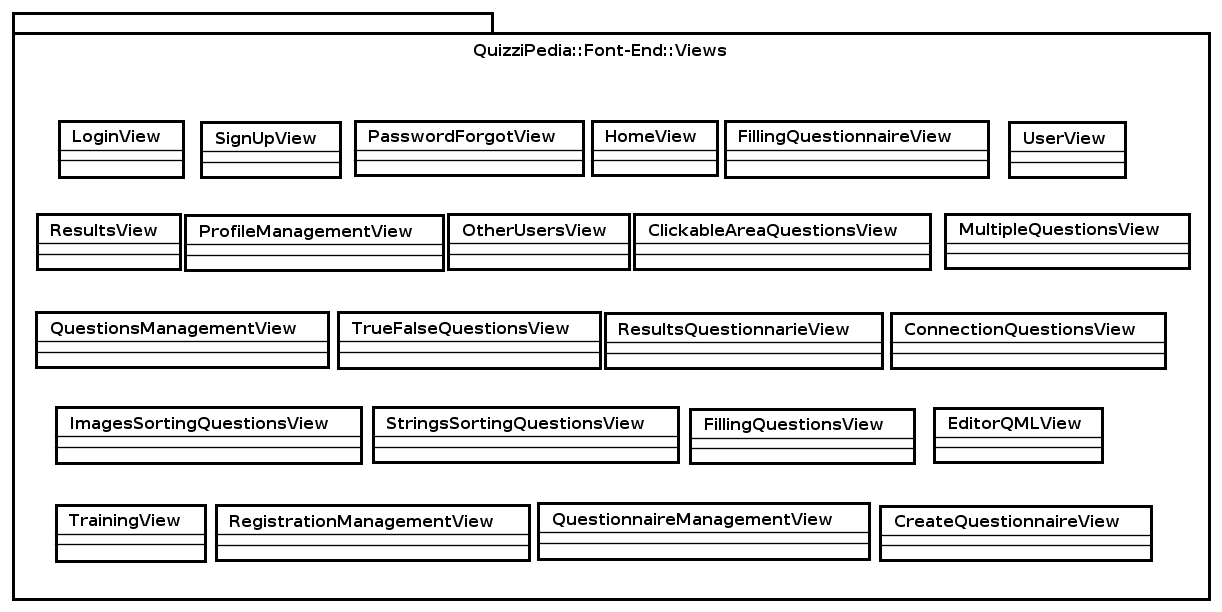
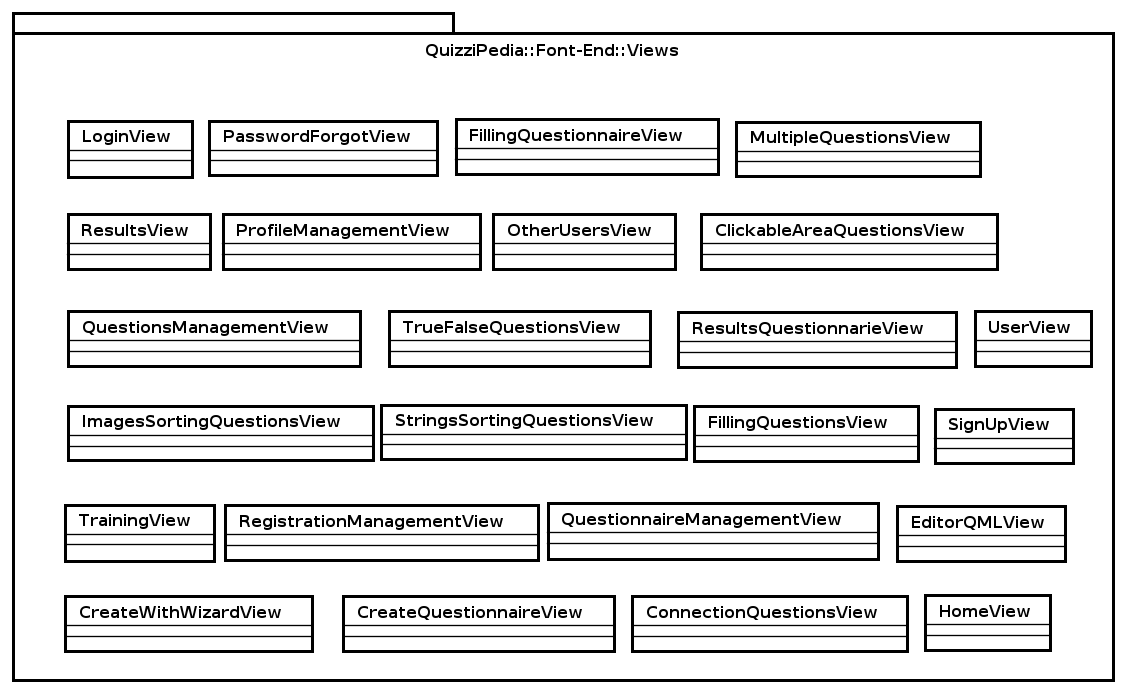
Aggiornate view DDP.

Changed region(s): [[0.0, 0.1552, 0.9947, 0.9935], [0.0, 0.0, 0.9947, 0.0931]]

diff --git a/RQ/DefinizioneDiProdotto/sezioni/Front-End/QuizziPedia_Front-End_Views.tex b/RQ/DefinizioneDiProdotto/sezioni/Front-End/QuizziPedia_Front-End_Views.tex
@@ -44,4 +44,4 @@
 \input{sezioni/Front-End/Views/QuizziPedia_Front-End_Views_ResultsQuestionnarieView.tex}
 \input{sezioni/Front-End/Views/QuizziPedia_Front-End_Views_RegistrationManagementView.tex}
 \input{sezioni/Front-End/Views/QuizziPedia_Front-End_Views_CreateWithWizardView.tex}
-\input{sezioni/Front-End/Views/QuizziPedia_Front-End_Views_ShowAllCreatedQuestionnairesView.tex}
+%\input{sezioni/Front-End/Views/QuizziPedia_Front-End_Views_ShowAllCreatedQuestionnairesView.tex}
